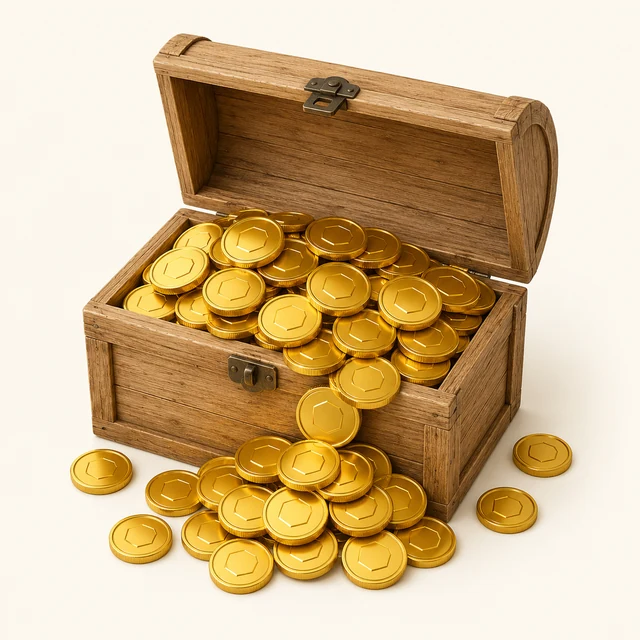
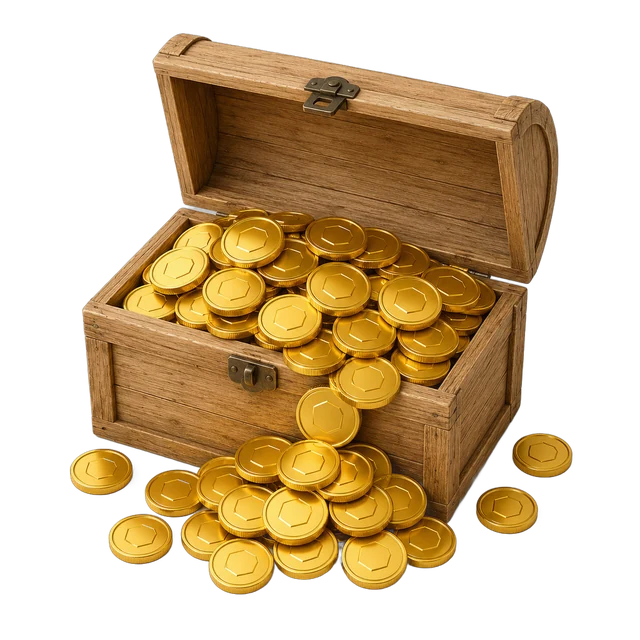
assets: transparante pakket-afbeeldingen (rembg-segmentatie, hexagons intact)

Changed region(s): [[0.125, 0.4688, 0.9688, 0.9375], [0.2812, 0.3125, 0.3438, 0.3438], [0.1562, 0.8438, 0.1875, 0.875]]

diff --git a/docs/LOG.md b/docs/LOG.md
@@ -9549,3 +9549,15 @@ Changed: docs/LOG.md
 docs/wiki/INDEX.md
 docs/wiki/architecture/finance-audit.md
 ---
+[2026-07-15 23:13] commit: assets: transparante pakket-afbeeldingen (rembg-segmentatie, hexagons intact)
+
+Co-Authored-By: Claude Opus 4.8 (1M context) <noreply@anthropic.com>
+Changed: apps/app/public/packages/plus-1000.webp
+apps/app/public/packages/power-3000.webp
+apps/app/public/packages/starter-400.webp
+apps/app/public/packages/try-100.webp
+apps/marketing/public/packages/plus-1000.webp
+apps/marketing/public/packages/power-3000.webp
+apps/marketing/public/packages/starter-400.webp
+apps/marketing/public/packages/try-100.webp
+---
